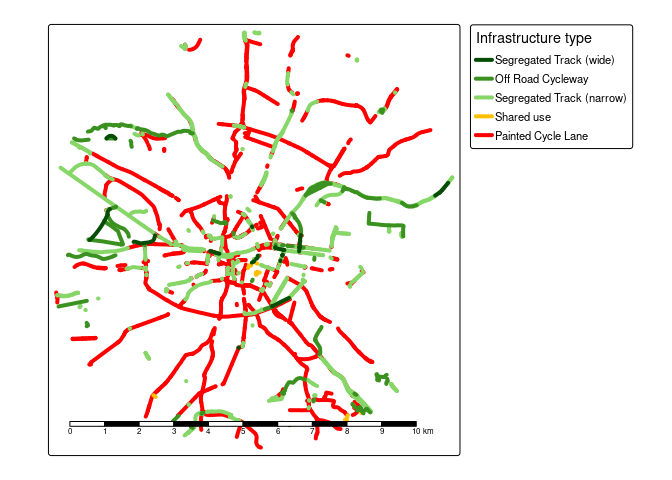
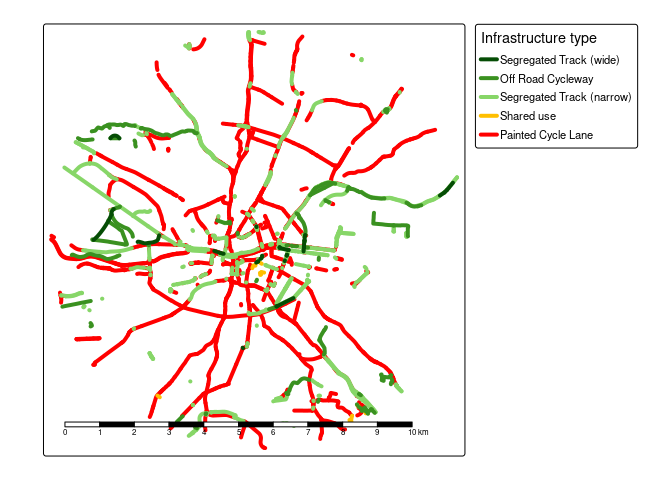
Regenerate results with cycleway*=share*, big difference

diff --git a/README.md b/README.md
@@ -43,14 +43,14 @@ cycle_net = distance_to_road(cycle_net, drive_net)
 cycle_net = classify_cycle_infrastructure(cycle_net)
 table(cycle_net$detailed_segregation)
 #> 
-#>        Level track  Off Road Cycleway Painted Cycle Lane Stepped or footway 
-#>                 13                  4                  1                  1
+#>        Level track  Off Road Cycleway Painted Cycle Lane 
+#>                 14                  4                  1
 table(cycle_net$cycle_segregation)
 #> 
 #>   Segregated Track (wide)         Off Road Cycleway Segregated Track (narrow) 
-#>                         6                         4                         8 
+#>                         6                         3                         8 
 #>                Shared use        Painted Cycle Lane 
-#>                         0                         1
+#>                         1                         1
 ```
 
 You can also create plots with the packaged `plot_osm_tmap()` function:
@@ -244,10 +244,10 @@ osm = get_travel_network(london, boundary = london, boundary_type = "clipsrc")
 #> Reading layer `lines' from data source 
 #>   `/home/robin/data/osm/geofabrik_greater-london-latest.gpkg' 
 #>   using driver `GPKG'
-#> Simple feature collection with 6168 features and 45 fields
+#> Simple feature collection with 5856 features and 45 fields
 #> Geometry type: MULTILINESTRING
 #> Dimension:     XY
-#> Bounding box:  xmin: -0.1189676 ymin: 51.4957 xmax: -0.09016682 ymax: 51.51368
+#> Bounding box:  xmin: -0.1188785 ymin: 51.49424 xmax: -0.09009284 ymax: 51.51222
 #> Geodetic CRS:  WGS 84
 cycle_net = get_cycling_network(osm)
 drive_net = get_driving_network(osm)
